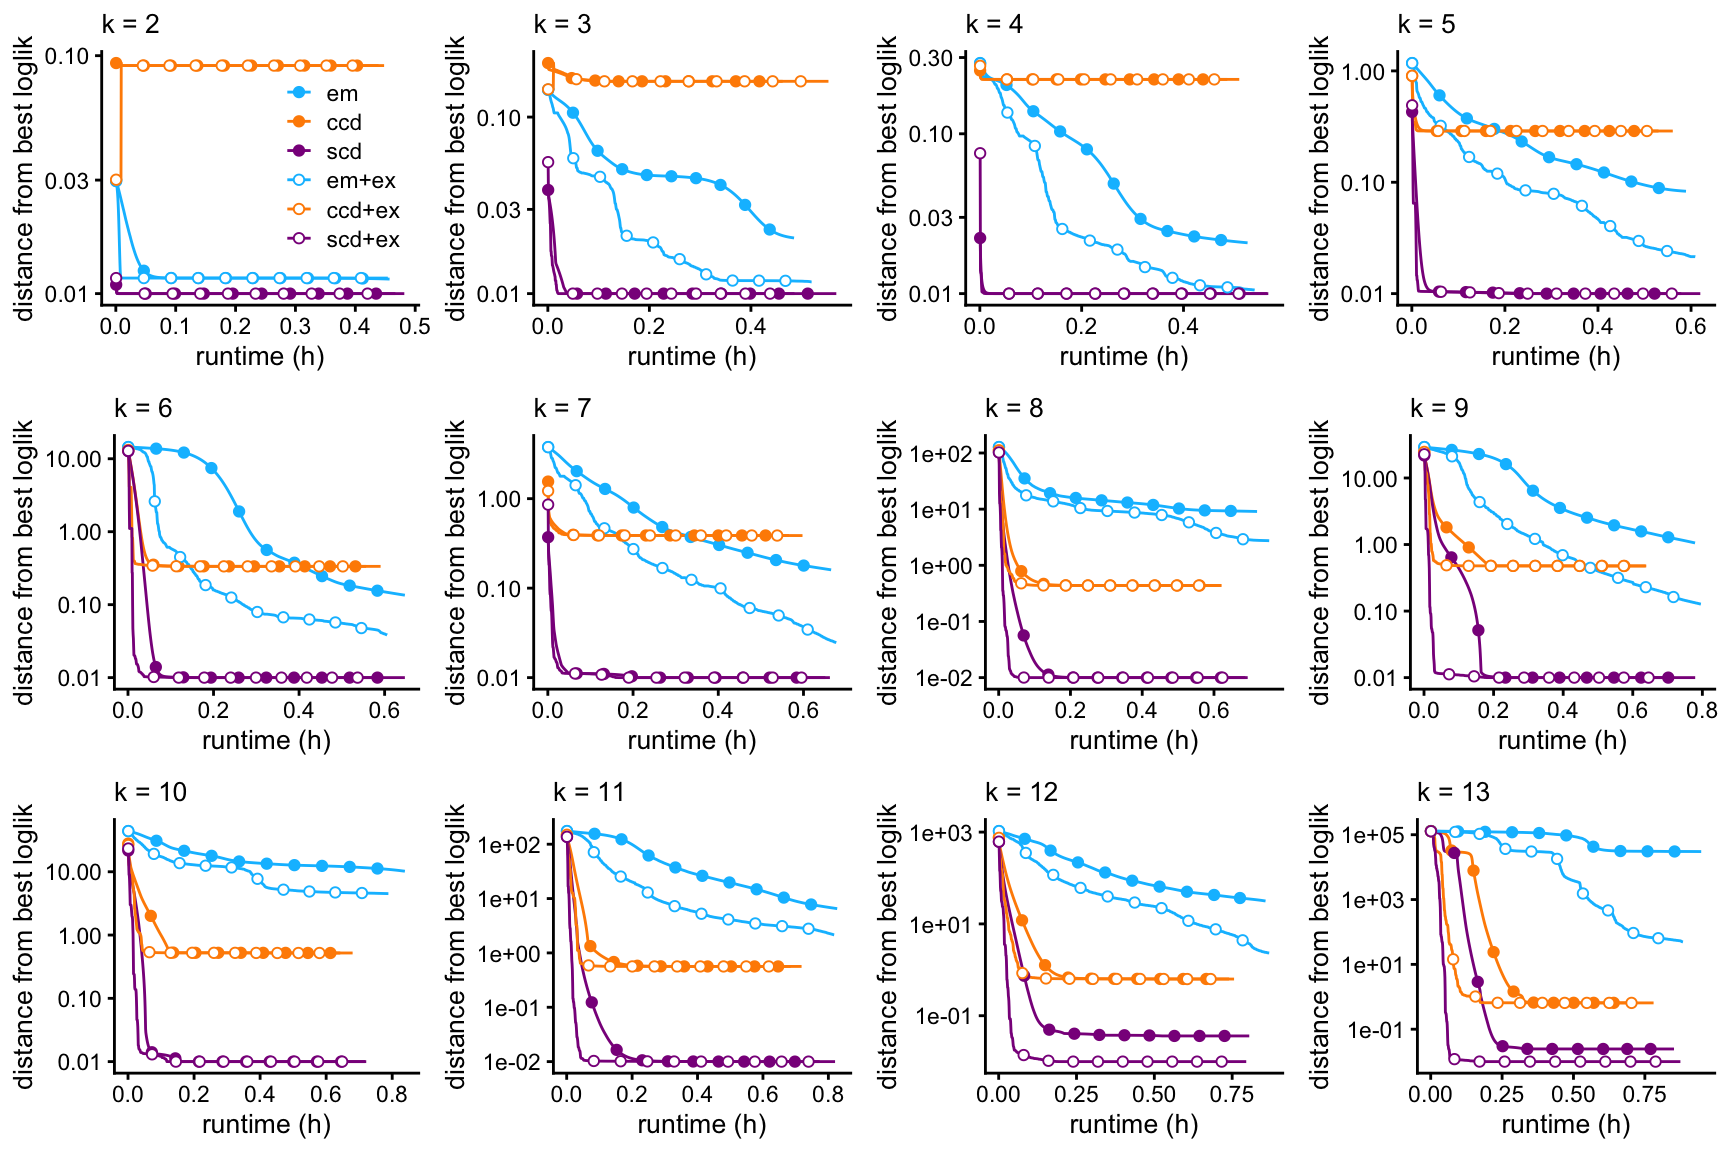
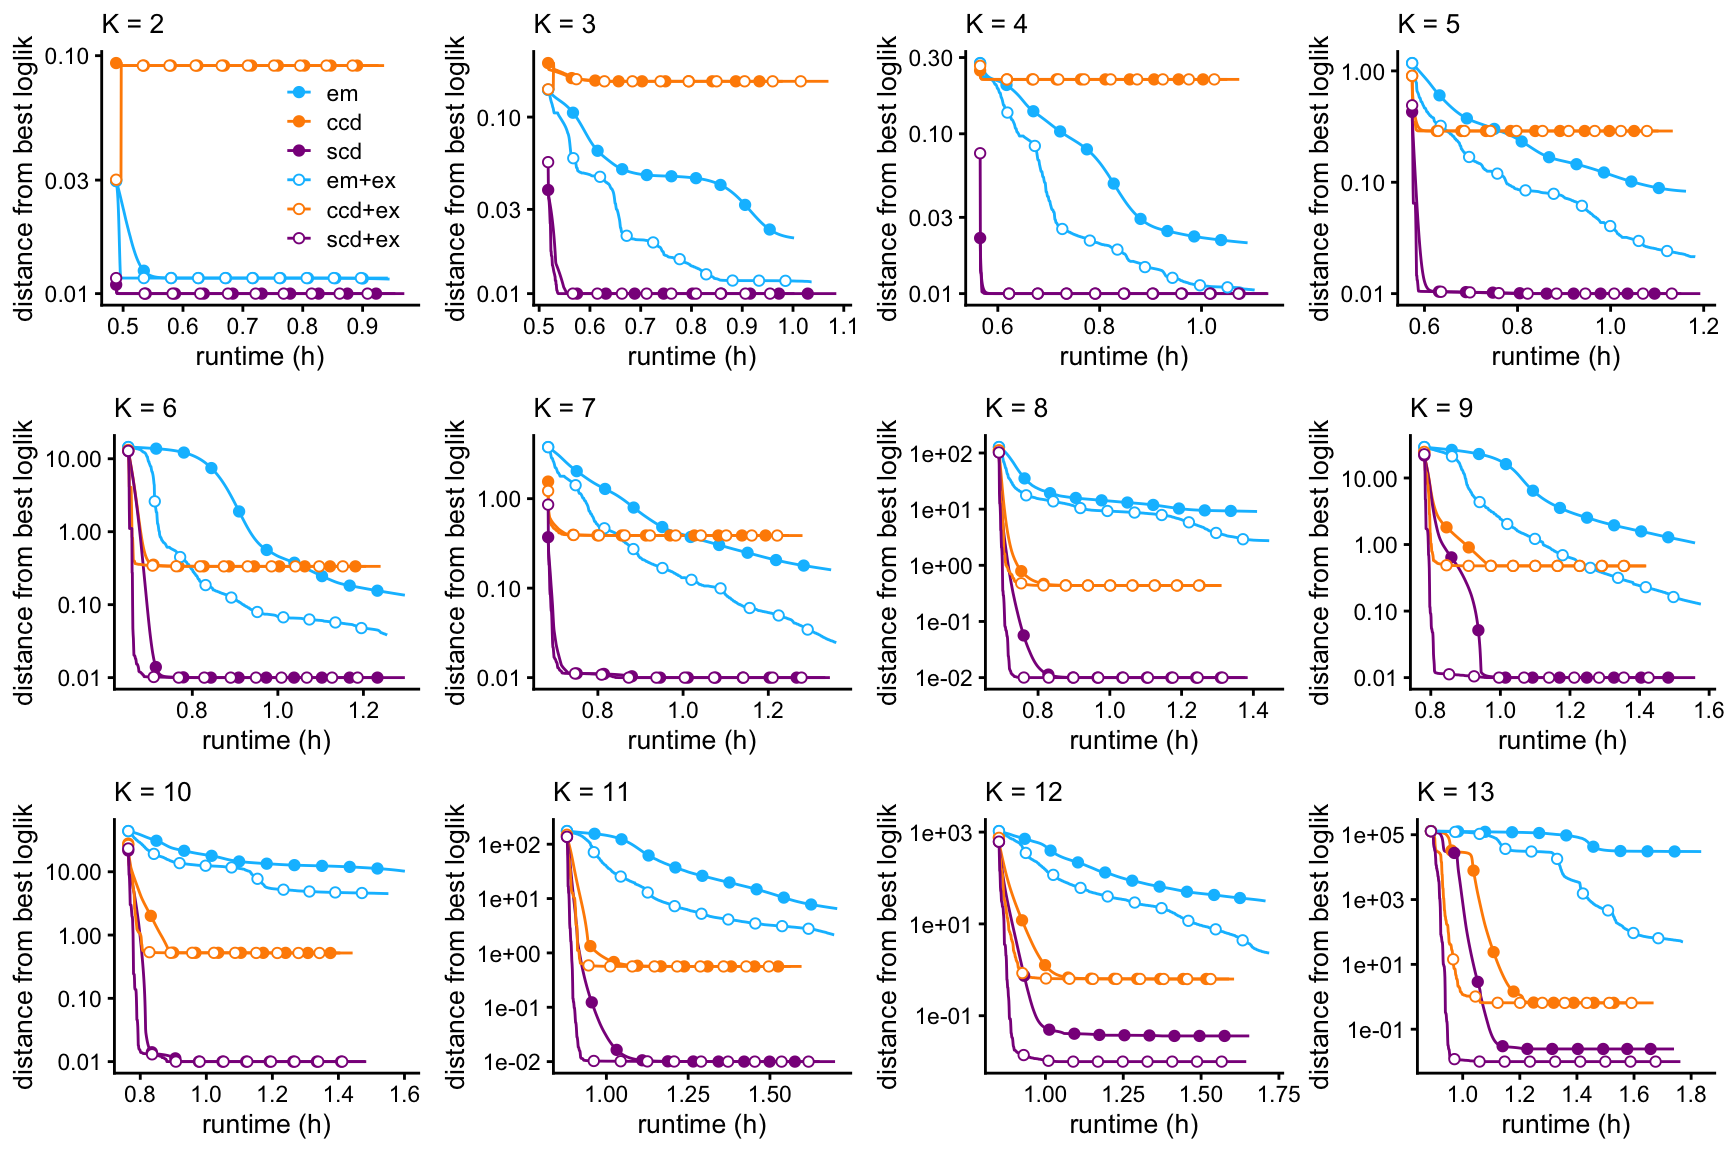
Added code to generate figures for paper in assess_fits_droplet analysis.

diff --git a/docs/assess_fits_droplet.html b/docs/assess_fits_droplet.html
@@ -323,7 +323,7 @@ $(document).ready(function () {
 <div class="tab-content">
 <div id="summary" class="tab-pane fade in active">
 <p>
-<strong>Last updated:</strong> 2020-10-26
+<strong>Last updated:</strong> 2020-11-13
 </p>
 <p>
 <strong>Checks:</strong> <span class="glyphicon glyphicon-ok text-success" aria-hidden="true"></span> 7 <span class="glyphicon glyphicon-exclamation-sign text-danger" aria-hidden="true"></span> 0
@@ -414,16 +414,16 @@ This reproducible <a href="http://rmarkdown.rstudio.com">R Markdown</a> analysis
 <div class="panel panel-default">
 <div class="panel-heading">
 <p class="panel-title">
-<a data-toggle="collapse" data-parent="#workflowr-checks" href="#strongRepositoryversionstrongahrefhttpsgithubcomstephenslabsinglecelltopicstreee178bed6e41b513fa37ba4f92c0a79045eedb361targetblanke178beda"> <span class="glyphicon glyphicon-ok text-success" aria-hidden="true"></span> <strong>Repository version:</strong> <a href="https://github.com/stephenslab/single-cell-topics/tree/e178bed6e41b513fa37ba4f92c0a79045eedb361" target="_blank">e178bed</a> </a>
+<a data-toggle="collapse" data-parent="#workflowr-checks" href="#strongRepositoryversionstrongahrefhttpsgithubcomstephenslabsinglecelltopicstree71ddca1e7ce3c6078d82cffeae3d15c40c5fe764targetblank71ddca1a"> <span class="glyphicon glyphicon-ok text-success" aria-hidden="true"></span> <strong>Repository version:</strong> <a href="https://github.com/stephenslab/single-cell-topics/tree/71ddca1e7ce3c6078d82cffeae3d15c40c5fe764" target="_blank">71ddca1</a> </a>
 </p>
 </div>
[2 lines of base64/hex data omitted]
 <div class="panel-body">
 <p>
 Great! You are using Git for version control. Tracking code development and connecting the code version to the results is critical for reproducibility.
 </p>
 <p>
-The results in this page were generated with repository version <a href="https://github.com/stephenslab/single-cell-topics/tree/e178bed6e41b513fa37ba4f92c0a79045eedb361" target="_blank">e178bed</a>. See the <em>Past versions</em> tab to see a history of the changes made to the R Markdown and HTML files.
+The results in this page were generated with repository version <a href="https://github.com/stephenslab/single-cell-topics/tree/71ddca1e7ce3c6078d82cffeae3d15c40c5fe764" target="_blank">71ddca1</a>. See the <em>Past versions</em> tab to see a history of the changes made to the R Markdown and HTML files.
 </p>
 <p>
 Note that you need to be careful to ensure that all relevant files for the analysis have been committed to Git prior to generating the results (you can use <code>wflow_publish</code> or <code>wflow_git_commit</code>). workflowr only checks the R Markdown file, but you know if there are other scripts or data files that it depends on. Below is the status of the Git repository when the results were generated:
@@ -482,6 +482,57 @@ Message
 </tr>
 </thead>
 <tbody>
+<tr>
+<td>
+Rmd
+</td>
+<td>
+<a href="https://github.com/stephenslab/single-cell-topics/blob/71ddca1e7ce3c6078d82cffeae3d15c40c5fe764/analysis/assess_fits_droplet.Rmd" target="_blank">71ddca1</a>
+</td>
+<td>
+Peter Carbonetto
+</td>
+<td>
+2020-11-13
+</td>
+<td>
+workflowr::wflow_publish(“assess_fits_droplet.Rmd”)
+</td>
+</tr>
+<tr>
+<td>
+Rmd
+</td>
+<td>
+<a href="https://github.com/stephenslab/single-cell-topics/blob/7574166fb3a95b2a6b1da6f179ae8262e214b8db/analysis/assess_fits_droplet.Rmd" target="_blank">7574166</a>
+</td>
+<td>
+Peter Carbonetto
+</td>
+<td>
+2020-11-11
+</td>
+<td>
+A couple small edits.
+</td>
+</tr>
+<tr>
+<td>
+html
+</td>
+<td>
+<a href="https://rawcdn.githack.com/stephenslab/single-cell-topics/e15be6fdaf16a517af7cee06ef3c85313e63ed2d/docs/assess_fits_droplet.html" target="_blank">e15be6f</a>
+</td>
+<td>
+Peter Carbonetto
+</td>
+<td>
+2020-10-26
+</td>
+<td>
+Added k &gt;= 15 fits to assess_fits_droplet.
+</td>
+</tr>
 <tr>
 <td>
 Rmd
@@ -665,9 +716,9 @@ Working on assess_fits_droplet analysis.
 library(ggplot2)
 library(cowplot)
 source(&quot;../code/functions_for_assessing_fits.R&quot;)</code></pre>
-<p>Load the results of running <code>fit_poisson_nmf</code> on the droplet data, with different algorithms, and for various choices of <span class="math inline">\(k\)</span> (the number of “topics”).</p>
+<p>Load the results of running <code>fit_poisson_nmf</code> on the droplet data, with different algorithms, and for various settings of <span class="math inline">\(K\)</span> (the number of topics, or equivalently the dimension of the matrix factorization).</p>
 <pre class="r"><code>load(&quot;../output/droplet/fits-droplet.RData&quot;)</code></pre>
-<p>This plot shows the improvement in the log-likelihood as the rank, <span class="math inline">\(k\)</span>, is increased. The log-likelihoods are shown relative to the log-likelihood at <span class="math inline">\(k = 2\)</span>.</p>
+<p>This plot shows the improvement in the log-likelihood as the rank, <span class="math inline">\(k\)</span>, is increased. The log-likelihoods are shown relative to the log-likelihood at <span class="math inline">\(K = 2\)</span>.</p>
 <pre class="r"><code>plot_loglik_vs_rank(fits) +
   theme_cowplot(font_size = 12)</code></pre>
 <p><img src="figure/assess_fits_droplet.Rmd/plot-loglik-vs-k-1.png" width="480" style="display: block; margin: auto;" /></p>
@@ -695,6 +746,17 @@ Date
 <tbody>
 <tr>
 <td>
+<a href="https://github.com/stephenslab/single-cell-topics/blob/e15be6fdaf16a517af7cee06ef3c85313e63ed2d/docs/figure/assess_fits_droplet.Rmd/plot-loglik-vs-k-1.png" target="_blank">e15be6f</a>
+</td>
+<td>
+Peter Carbonetto
+</td>
+<td>
+2020-10-26
+</td>
+</tr>
+<tr>
+<td>
 <a href="https://github.com/stephenslab/single-cell-topics/blob/bc18c04428cedd7c7cdfe7fe9aa2b4097b39eb82/docs/figure/assess_fits_droplet.Rmd/plot-loglik-vs-k-1.png" target="_blank">bc18c04</a>
 </td>
 <td>
@@ -719,8 +781,8 @@ Peter Carbonetto
 </table>
 </div>
 </div>
-<p>Oddly, the likelihood did not improve from <span class="math inline">\(k=4\)</span> to <span class="math inline">\(k=5\)</span>, and same from <span class="math inline">\(k=8\)</span> to <span class="math inline">\(k=9\)</span>. Otherwise, the likelihood improved with larger rank, <span class="math inline">\(k\)</span>.</p>
-<p>The next set of plots shows the improvement in the fit over time, for <span class="math inline">\(k = 2--13\)</span>, and for each of the three optimization methods (EM, CCD, SCD) compared, with and without the extrapolation scheme. The quality of the fit is measured by the log-likelihood relative to the best log-likelihood that was identified among all methods compared.</p>
+<p>Oddly, the likelihood did not improve from 4 to 5, and same from 8 to 9. Otherwise, the likelihood improved with larger rank, <span class="math inline">\(K\)</span>.</p>
+<p>The next set of plots shows the improvement in the fit over time, for each setting of <span class="math inline">\(K\)</span>, and for each of the three updates (EM, CCD, SCD) with and without extrapolation. The quality of the fit is measured by the log-likelihood relative to the best log-likelihood that was identified among all methods compared.</p>
 <pre class="r"><code>create_progress_plots(dat,fits,&quot;loglik&quot;)</code></pre>
 <p><img src="figure/assess_fits_droplet.Rmd/plot-loglik-1.png" width="864" style="display: block; margin: auto;" /></p>
 <p>
@@ -844,6 +906,8 @@ Peter Carbonetto
 </table>
 </div>
 </div>
+<pre><code># Scale for &#39;x&#39; is already present. Adding another scale for &#39;x&#39;, which will
+# replace the existing scale.</code></pre>
 <br>
 <p>
 <button type="button" class="btn btn-default btn-workflowr btn-workflowr-sessioninfo" data-toggle="collapse" data-target="#workflowr-sessioninfo" style="display: block;">
